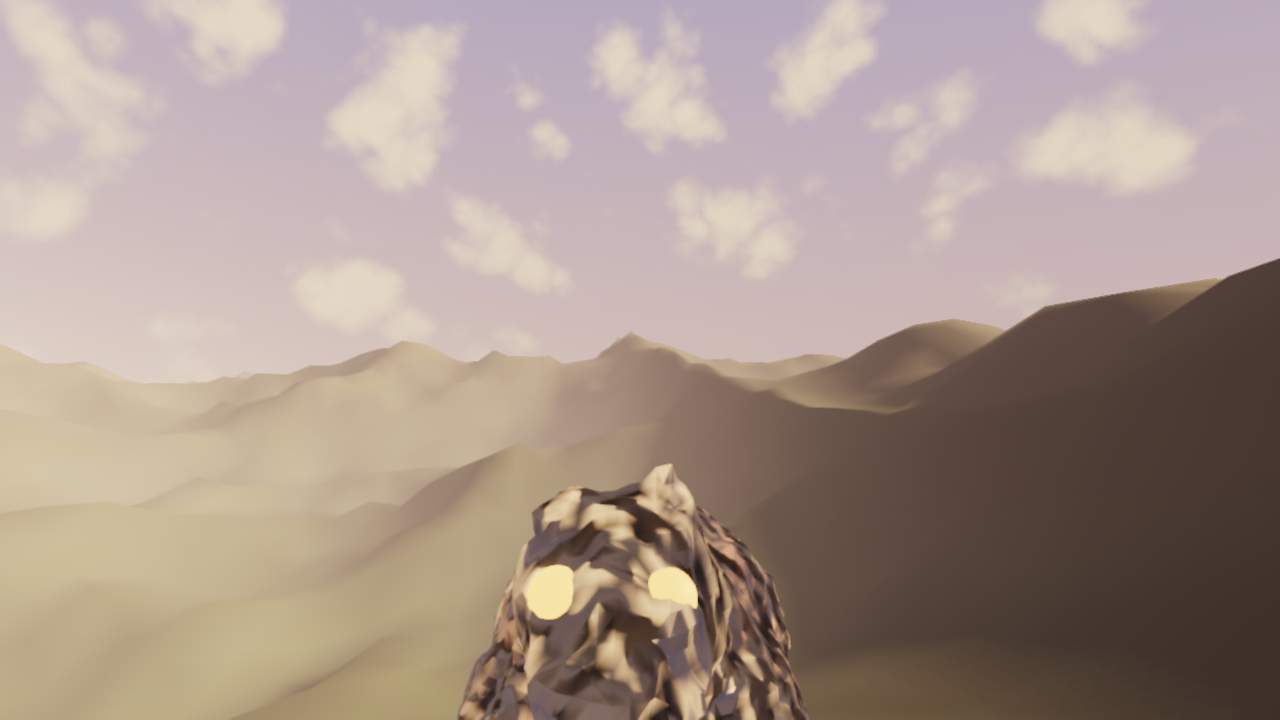
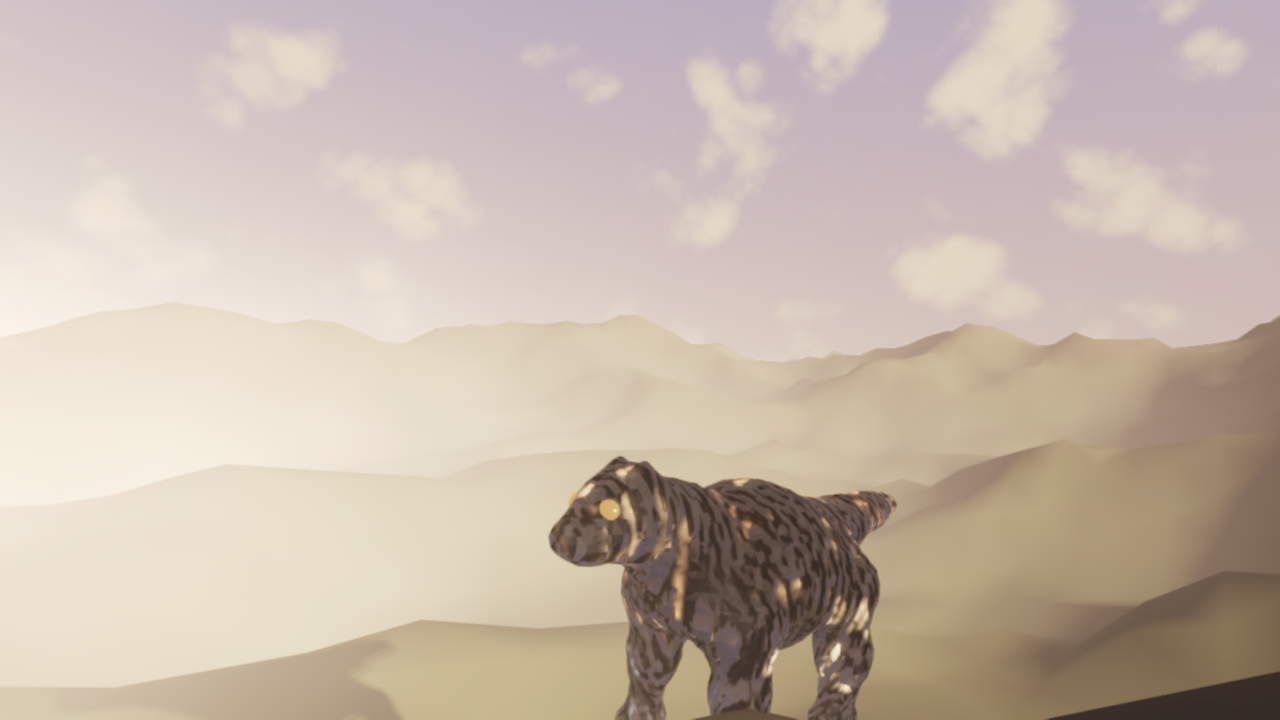
G30 polish: no more glowing ball eyes, smooth skin with readable scale cells
- eyes: smaller (r 0.06), embedded, glossy dark albedo + dim amber emissive below bloom threshold
- geometry detail defaults: detailAmp 0.035->0.02, detailFreq 5->6, octaves 3->2 (no lumps)
- bake: worley scale cells with dark borders + per-cell tint, wider stripes, bumpStrength 1.5
- demo: calmer fog/volumetric/bloom, curvatureGain 3; closeup re-aimed at head+flank
- refs g30_creature_{wide,closeup}.png re-rendered + compressed; tutorials updated

diff --git a/examples/creature_screenshot/main.cpp b/examples/creature_screenshot/main.cpp
@@ -139,7 +139,7 @@ bool renderToPng(fuhglgraphics::scene::Scene& scn, fuhgl::FirstPersonCamera& cam
         frame.effects.applyTo(renderer);
         frame.view.env = env;
         frame.view.fogColor = {0.72f, 0.55f, 0.42f};
-        frame.view.fogDensity = 0.0011f;
+        frame.view.fogDensity = 0.0005f;
         renderer.render(frame.view, &frame.materialIds, &frame.castShadow, &frame.particleSystems,
                         frame.lightProbes, &frame.decals, frame.water, &frame.skins);
     }
@@ -164,7 +164,7 @@ CreatureActor buildCreature(const fuhglgraphics::procedural::Skeleton& skel,
                             int mapSize) {
     CreatureActor a;
     const fuhglgraphics::procedural::CreatureMesh cm =
-        fuhglgraphics::procedural::meshCreature(skel, pr, meshRes, {1.f, 1.f, 1.f});
+        fuhglgraphics::procedural::meshCreature(skel, pr, meshRes, {1.f, 1.f, 1.f}, /*curvatureGain=*/3.f);
     a.meshData = cm.mesh;
     a.mesh.setMeshData(a.meshData);
     const fuhglgraphics::procedural::CreatureMaps maps =
@@ -227,8 +227,11 @@ int main(int argc, char** argv) {
     // --- G30 creatures: quadruped + reptile with baked procedural maps ---
     procedural::CreatureParams prQ;
     prQ.seed = 21u;
-    prQ.scaleFreq = 5.5f;                    // big readable scales
+    prQ.scaleFreq = 6.f;    // readable scale cells                    // big readable scales
     prQ.stripeFreq = 0.8f;                   // wide stripes
+    prQ.detailAmp = 0.010f;                  // fine, subtle skin folds (not lumpy)
+    prQ.detailFreq = 10.f;
+    prQ.bumpStrength = 1.0f;                 // gentle normal-map relief
     prQ.bodyColor = {0.48f, 0.38f, 0.24f};  // tawny
     prQ.bellyColor = {0.78f, 0.70f, 0.55f};
     prQ.accentColor = {0.30f, 0.16f, 0.10f}; // dark stripes
@@ -241,9 +244,10 @@ int main(int argc, char** argv) {
     prR.bodyColor = {0.22f, 0.38f, 0.28f};  // green
     prR.bellyColor = {0.55f, 0.62f, 0.38f};
     prR.accentColor = {0.10f, 0.22f, 0.16f};
-    prR.scaleFreq = 9.f;                   // smaller scales
-    prR.detailAmp = 0.05f;                  // stronger skin folds
-    prR.detailFreq = 7.f;
+    prR.scaleFreq = 8.f;                    // smaller scales
+    prR.detailAmp = 0.014f;                 // fine, subtle skin folds
+    prR.detailFreq = 11.f;
+    prR.bumpStrength = 1.0f;
     prR.roughness = 0.35f;                  // wetter skin
     const procedural::Skeleton reptile = procedural::makeReptile();
     CreatureActor rep = buildCreature(reptile, prR, 80, 256);
@@ -278,11 +282,11 @@ int main(int argc, char** argv) {
                        const fuhgl::math::Vec3& headPos) {
         for (int s = -1; s <= 1; s += 2) {
             const fuhgl::render::MeshData eyeMd = procedural::meshFromSdf(
-                [](const fuhgl::math::Vec3& p) { return procedural::sdf::sphere(p, 0.055f); },
-                {-0.08f, -0.08f, -0.08f}, {0.08f, 0.08f, 0.08f}, 12, {1.f, 1.f, 1.f});
+                [](const fuhgl::math::Vec3& p) { return procedural::sdf::sphere(p, 0.06f); },
+                {-0.06f, -0.06f, -0.06f}, {0.06f, 0.06f, 0.06f}, 12, {1.f, 1.f, 1.f});
             fuhgl::render::Mesh* eye = new fuhgl::render::Mesh();
             eye->setMeshData(eyeMd);
-            const fuhgl::math::Vec3 local = headPos + fuhgl::math::Vec3{0.10f * s, 0.05f, 0.18f};
+            const fuhgl::math::Vec3 local = headPos + fuhgl::math::Vec3{0.10f * s, 0.04f, 0.16f};
             const fuhgl::math::Mat4 rot = fuhgl::math::rotateY(yaw);
             const fuhgl::math::Vec3 world = fuhgl::math::Vec3{spot.x, 0.f, spot.y} +
                                             fuhgl::math::Vec3{rot(0, 0) * local.x + rot(2, 0) * local.z,
@@ -291,8 +295,9 @@ int main(int argc, char** argv) {
             scene::Node& en = scene.root().createChild("eye");
             en.translation = world;
             scene::MeshEntry& ee = en.attach<scene::MeshComponent>().addMesh(eye);
-            ee.emissive = {1.6f, 0.9f, 0.25f}; // amber glow -> bloom
-            ee.albedo = {0.05f, 0.03f, 0.02f};
+            ee.emissive = {0.5f, 0.25f, 0.08f};  // dim amber (below bloom threshold)
+            ee.albedo = {0.02f, 0.015f, 0.01f};
+            ee.roughness = 0.15f; // glossy dark eyes
             ee.castShadow = false;
         }
     };
@@ -332,8 +337,8 @@ int main(int argc, char** argv) {
     scene.root().effects.params.ssaoRadius = 1.2f;
     scene.root().effects.params.ssaoIntensity = 1.5f;
     scene.root().effects.params.bloomThreshold = 1.0f;
-    scene.root().effects.params.bloomStrength = 0.9f;
-    scene.root().effects.params.volumetricDensity = 0.004f;
+    scene.root().effects.params.bloomStrength = 0.55f;
+    scene.root().effects.params.volumetricDensity = 0.0015f;
     scene.root().effects.params.volumetricCloudiness = 0.7f;
 
     render::DeferredRenderer renderer;
@@ -363,8 +368,14 @@ int main(int argc, char** argv) {
     const fuhgl::math::Vec3 torsoWorld =
         fuhgl::math::Vec3{quadSpot.x, tc.heightAt(quadSpot.x, quadSpot.y), quadSpot.y} +
         fuhgl::math::Vec3{rot(0, 0) * 0.f + rot(2, 0) * 0.f, 1.0f, rot(0, 2) * 0.f + rot(2, 2) * 0.f};
-    cam.position = torsoWorld + fuhgl::math::Vec3{1.4f, 0.9f, 1.8f};
-    aimAt(cam, torsoWorld + fuhgl::math::Vec3{0.f, 0.9f, 0.f});
+    // camera offset and aim in the creature's local frame (rotated by quadYaw): flank + head
+    const fuhgl::math::Vec3 camOffLocal{2.4f, 1.2f, 2.8f};
+    const fuhgl::math::Vec3 aimLocal{0.f, 1.1f, 0.75f};
+    const auto rotv = [&](const fuhgl::math::Vec3& v) {
+        return fuhgl::math::Vec3{rot(0, 0) * v.x + rot(2, 0) * v.z, v.y, rot(0, 2) * v.x + rot(2, 2) * v.z};
+    };
+    cam.position = torsoWorld + rotv(camOffLocal);
+    aimAt(cam, torsoWorld + rotv(aimLocal));
     const std::string closePath = args.prefix + "_closeup.png";
     if (!renderToPng(scene, cam, renderer, &env, args.frames, args.width, args.height, closePath)) {
         std::fprintf(stderr, "creature_screenshot: failed to write %s\n", closePath.c_str());

diff --git a/src/procedural/creature.cpp b/src/procedural/creature.cpp
@@ -321,15 +321,16 @@ CreatureMaps bakeCreatureMaps(const Skeleton& skel, const CreatureParams& pr, in
                     col = col * (1.f - 0.85f * stripe) + pr.accentColor * (0.85f * stripe);
                     const float w = worley3(ps * pr.scaleFreq, pr.seed);
                     // worley F1: small near cell centers, large at cell borders -> darken the
-                    // borders so the cells read as scales
-                    const float groove = fuhgl::math::smoothstep(0.16f, 0.34f, w);
-                    col = col * (1.f - 0.65f * groove);
-                    const float var = 0.85f + 0.3f * nz.fbm3(ps.x * pr.detailFreq, ps.y * pr.detailFreq,
-                                                             ps.z * pr.detailFreq, 3, Noise::Base::Simplex);
+                    // borders so the cells read as scales; per-cell tint via a second worley
+                    const float groove = fuhgl::math::smoothstep(0.10f, 0.38f, w);
+                    const float cellTint = 0.80f + 0.35f * worley3(ps * pr.scaleFreq, pr.seed ^ 0x5bd1e995u);
+                    col = col * cellTint * (1.f - groove);
+                    const float var = 0.88f + 0.24f * nz.fbm3(ps.x * pr.detailFreq, ps.y * pr.detailFreq,
+                                                              ps.z * pr.detailFreq, 3, Noise::Base::Simplex);
                     col = col * var;
                     const float hgt = 0.5f * nz.fbm3(ps.x * pr.detailFreq * 1.3f, ps.y * pr.detailFreq * 1.3f,
                                                       ps.z * pr.detailFreq * 1.3f, 3, Noise::Base::Simplex) +
-                                      0.8f * groove;
+                                      0.5f * groove;
                     height[static_cast<std::size_t>(j) * S + i] = hgt;
                     unsigned char* o = &out.albedo[(static_cast<std::size_t>(j) * S + i) * 4];
                     o[0] = static_cast<unsigned char>(clamp01(col.x) * 255.f);

diff --git a/include/fuhglgraphics/procedural/creature.hpp b/include/fuhglgraphics/procedural/creature.hpp
@@ -76,12 +76,12 @@ private:
 struct CreatureParams {
     unsigned seed = 1u;
     float smoothK = 0.22f;        ///< smooth-min radius (organic muscle/skin transitions)
-    float detailAmp = 0.035f;     ///< 3D-noise modulation amplitude on the SDF (world units)
-    float detailFreq = 5.f;       ///< noise frequency of the geometry detail
-    int detailOctaves = 3;
+    float detailAmp = 0.02f;      ///< 3D-noise modulation amplitude on the SDF (world units)
+    float detailFreq = 6.f;       ///< noise frequency of the geometry detail
+    int detailOctaves = 2;
     float scaleFreq = 9.f;        ///< scale-cell frequency for the baked texture (object space)
     float stripeFreq = 1.4f;      ///< stripes along the body axis (per world unit z)
-    float bumpStrength = 2.2f;    ///< normal-map strength of the baked detail
+    float bumpStrength = 1.5f;    ///< normal-map strength of the baked detail
     fuhgl::math::Vec3 bodyColor{0.42f, 0.40f, 0.30f};
     fuhgl::math::Vec3 bellyColor{0.72f, 0.66f, 0.52f};
     fuhgl::math::Vec3 accentColor{0.50f, 0.22f, 0.15f}; ///< stripes / horns

diff --git a/docs/de/tutorials/g30_creature.md b/docs/de/tutorials/g30_creature.md
@@ -33,8 +33,8 @@ Skeleton skel = makeQuadruped();          // oder makeReptile()
 CreatureParams pr;
 pr.seed = 21u;
 pr.smoothK = 0.22f;                       // smooth-min-Blendenradius
-pr.detailAmp = 0.035f;                    // Geometrie-Noise (Falten), Amplitude
-pr.detailFreq = 5.f;
+pr.detailAmp = 0.02f;                     // Geometrie-Noise (Falten), Amplitude
+pr.detailFreq = 6.f;
 pr.scaleFreq = 5.5f;                      // gebachte Schuppenzellen-Frequenz
 pr.bodyColor = {0.48f, 0.38f, 0.24f};     // Palette: Körper / Bauch / Akzent (Streifen)
 pr.bellyColor = {0.78f, 0.70f, 0.55f};

diff --git a/docs/en/tutorials/g30_creature.md b/docs/en/tutorials/g30_creature.md
@@ -33,8 +33,8 @@ Skeleton skel = makeQuadruped();          // or makeReptile()
 CreatureParams pr;
 pr.seed = 21u;
 pr.smoothK = 0.22f;                       // smooth-min blend radius
-pr.detailAmp = 0.035f;                    // geometry noise (folds) amplitude
-pr.detailFreq = 5.f;
+pr.detailAmp = 0.02f;                     // geometry noise (folds) amplitude
+pr.detailFreq = 6.f;
 pr.scaleFreq = 5.5f;                      // baked scale-cell frequency
 pr.bodyColor = {0.48f, 0.38f, 0.24f};     // palette: body / belly / accent(stripes)
 pr.bellyColor = {0.78f, 0.70f, 0.55f};
